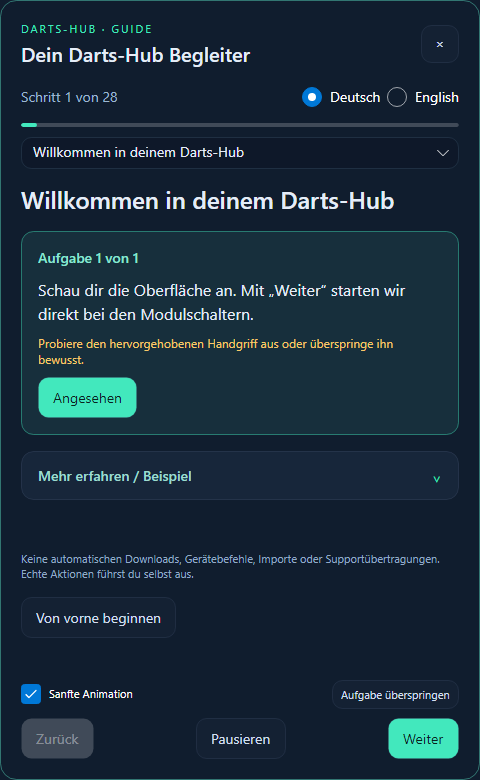
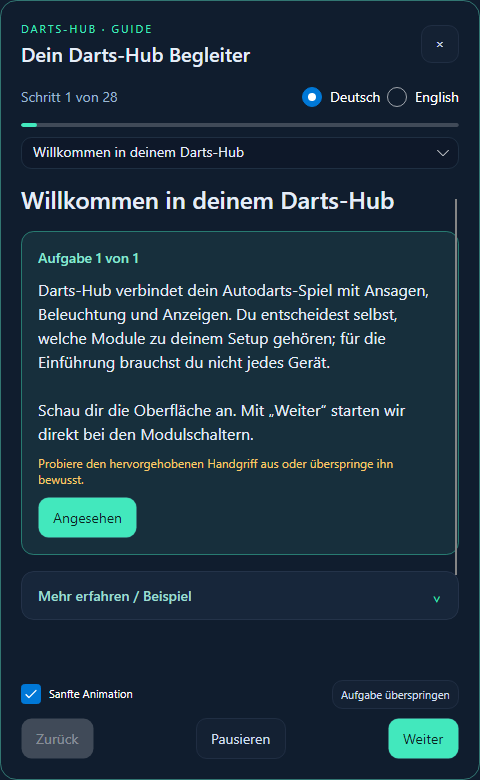
Publish documentation for v0.1.0-beta.48

Changed region(s): [[0.0312, 0.2769, 0.9688, 0.8], [0.6875, 0.5231, 0.8438, 0.5538]]

diff --git a/docs/HUBX.md b/docs/HUBX.md
@@ -2,6 +2,10 @@
 
 ## Deutsch
 
+HubX ist in **AWTRIX-NG, PixelIt und WLED** verfügbar. Das GIF-Anzeigemodul bietet keinen HubX-Browser und keine Teilen-Funktion. Pro Veröffentlichung wird genau ein Ereignis geteilt, mit allen zugehörigen Schritten und Bildern.
+
+HubX unterstützt GIFs und PNG-Pixelgrafiken auch in **64×8**. Auflösungsfilter und Größenangaben unterscheiden die Inhalte. Bei AWTRIX-Ereignissen wird die 32×8- oder 64×8-Displaygröße des Quellcontrollers für die Vorschau übernommen; sie ändert beim Import keine Einstellungen des Zielcontrollers. Der AWTRIX-HubX-Browser in GUI, TUI, lokaler Weboberfläche und Webapp hat ebenfalls einen Auflösungsfilter. PixelIt-Animationen bleiben auf maximal 32×8 beschränkt.
+
 [HubX](https://hubx.darts-hub.de/) benötigt **hubx_access** in deinem Lizenzschlüssel. Unter **Einstellungen → Lizenz** prüfen. Die Plattform verlangt die Zustimmung zu ihren aktuellen Rechtstexten; beim Teilen aus Darts-Hub kann dies direkt im Dialog erfolgen.
 
 ### Entdecken und übernehmen
@@ -23,9 +27,9 @@ Bei gleichen GIF-Namen werden beide Bilder gegenübergestellt: umbenennen, über
 
 ### Teilen
 
-**Auf HubX teilen** im jeweiligen Modul öffnen. Titel selbst eingeben, ausdrücklich die richtigen Ereignisse auswählen und den benötigten Quellcontroller bestimmen. Daten prüfen und die öffentliche **CC0**-Freigabe bestätigen. Geräteadressen und Zugangsdaten bleiben privat. Nur eigene oder entsprechend freigegebene Inhalte hochladen.
+**Auf HubX teilen** im jeweiligen Modul öffnen. Titel selbst eingeben, ausdrücklich genau ein Ereignis auswählen und den benötigten Quellcontroller bestimmen. Daten prüfen und die öffentliche **CC0**-Freigabe bestätigen. Geräteadressen und Zugangsdaten bleiben privat. Nur eigene oder entsprechend freigegebene Inhalte hochladen.
 
-AWTRIX-GIFs werden zusätzlich einzeln angeboten. Verknüpfte WLED-Presets erscheinen zusätzlich als eigene Beiträge mit passender Vorschau. Eine optionale Controller-Aufnahme benötigt ein erreichbares Gerät und ist während eines laufenden Matches gesperrt. Pixelit veröffentlicht auch die wirksamen Vorlagen inklusive Text-, Farb-, Scroll- und Helligkeitsanpassungen. Manuelle Website-Uploads sind für GIFs; Ereignisse kommen aus Darts-Hub.
+AWTRIX-GIFs werden zusätzlich einzeln angeboten. Verknüpfte WLED-Presets erscheinen zusätzlich als eigene Beiträge mit passender Vorschau. Eine optionale Controller-Aufnahme benötigt ein erreichbares Gerät und ist während eines laufenden Matches gesperrt. Pixelit veröffentlicht auch die wirksamen Vorlagen inklusive Text-, Farb-, Scroll- und Helligkeitsanpassungen. Manuelle Website-Uploads sind für GIFs und PNG-Pixelgrafiken; Ereignisse kommen aus Darts-Hub.
 
 Studio-Zugang: Administratoren oder **studio_access**. Eigene GIFs lassen sich im Studio bearbeiten; Administratoren können weitere Beiträge öffnen. Profile, Bewertungen und Badges werden auf der Website verwaltet.
 
@@ -33,11 +37,15 @@ TUI: HubX-Posteingang beziehungsweise HubX-Aktionen der Erweiterung verwenden. L
 
 ## English
 
+HubX is available in **AWTRIX NG, PixelIt and WLED**. The GIF display module has no HubX browser or sharing action. Each publication shares exactly one event, including all its steps and images.
+
+HubX supports GIFs and PNG pixel graphics in **64×8** too, with resolution filters and size labels. AWTRIX event previews use the source controller's 32×8 or 64×8 display size; importing does not change target device settings. The AWTRIX HubX browser in GUI, TUI, local web UI and webapp also offers a resolution filter. PixelIt animations remain limited to 32×8.
+
 HubX requires **hubx_access**. Verify your saved license and accept the current legal documents when prompted. Discover effects from the HubX section of each module, inspect previews and trigger conditions, then confirm the local import. Website **Send to Darts-Hub** delivers a package to a running installation for review. Downloaded **package JSON** files use the same workflow.
 
 Event packages include their required resources. Standalone GIFs upload to a selected AWTRIX NG controller, standalone WLED presets upload only to a selected controller, and standalone Pixelit templates save to the template library: none creates a rule. Compare, rename or overwrite GIF name collisions. WLED requires free replacement IDs, which imported rules then use. Templates use meaningful `_hubX` names.
 
-When sharing, enter a title, choose the intended events and source controller, review and confirm public **CC0** sharing. Device addresses and credentials stay private. Included AWTRIX GIFs, linked WLED presets and effective Pixelit templates are also offered separately. Manual website uploads accept GIFs; event packages originate in Darts-Hub. Studio requires administrator rights or **studio_access**. GUI, TUI, local web UI and paired webapp share import validation. Previews have simulation, firmware and external-input limitations.
+When sharing, enter a title, choose exactly one event and the source controller, review and confirm public **CC0** sharing. Device addresses and credentials stay private. Included AWTRIX GIFs, linked WLED presets and effective Pixelit templates are also offered separately. Manual website uploads accept GIFs and PNG pixel graphics; event packages originate in Darts-Hub. Studio requires administrator rights or **studio_access**. GUI, TUI, local web UI and paired webapp share import validation. Previews have simulation, firmware and external-input limitations.
 
 [GIF import](HubX-GIF-Import.md) · [AWTRIX](AWTRIX.md) · [Pixelit](PIXELIT.md) · [WLED](WLED_CONFIGURATION_AND_AUTODARTS.md)
 

diff --git a/docs/GUIDED_INTRODUCTION.md b/docs/GUIDED_INTRODUCTION.md
@@ -4,6 +4,7 @@
 
 Beim ersten GUI-Start bietet Darts-Hub die Einführung an, sobald der Start und notwendige Dialoge abgeschlossen sind. Du erreichst sie jederzeit über **?** im Kopfbereich oder **Geführte Einführung** im Dashboard. Der Begleiter bleibt verschiebbar und an den Rändern skalierbar; die eigentliche Anwendung bleibt bedienbar.
 
+- Aufgaben erklären zuerst Zweck und Wirkung der Funktion, dann den konkreten Handgriff. Zusatzinfos erläutern beispielsweise Download gegenüber Stimmenauswahl, Auslöser gegenüber Effekt, Spielerfilter gegenüber Zielgerät und Vorlage gegenüber Überschreibung.
 - Die echten Bedienelemente werden mit einem hellen Ausschnitt hervorgehoben; der übrige Bereich wird abgedunkelt. Die Oberfläche bleibt bedienbar. Der Ausschnitt folgt Scrollen und Fenstergröße. „Sanfte Animation“ schaltet die gleitende, dezent pulsierende Hervorhebung ab oder an.
 - Jedes Kapitel hat kleine Aufgaben statt eines langen Pflichttexts: etwa Bibliothek aufklappen, Sprachfilter ansehen und Suche ändern. Passende Klicks, Fokus oder Änderungen werden erkannt; eine Rückmeldung bestätigt den Handgriff. Längere Erklärungen und Beispiele stehen in einer aufklappbaren Karte im Anwendungsstil unter **Mehr erfahren / Beispiel**.
 - Fehlende Elemente werden als nicht sichtbar gemeldet. **Aufgabe überspringen** führt weiter, ohne etwas einzurichten. Die Übungsregel ist weiterhin eine Simulation.
@@ -27,6 +28,8 @@ Der Fortschritt ist lokale Bedienoberflächeninformation in `learning-progress.j
 ## English
 
 On first GUI launch, Darts-Hub offers the introduction after startup and required dialogs finish. Reopen it using **?** in the header or **Guided introduction** on Dashboard. Move or resize the companion while continuing to use the actual application.
+
+Tasks first explain the purpose and effect of a function, then the action to try. Additional information distinguishes downloading from voice selection, triggers from effects, player filters from target devices, and templates from overrides.
 
 Real controls are spotlighted while the surrounding interface is dimmed and remains usable. The cutout follows scrolling and resizing. Gentle animation can be disabled. Small tasks recognize clicks, focus or changes and give immediate feedback. Longer explanations and examples sit in a collapsible card styled like the application under **Learn more / example**. Missing controls are reported explicitly; **Skip task** continues without configuring anything. Progress includes the exact subtask and animation preference.
 

diff --git a/changelog.md b/changelog.md
@@ -1,6 +1,6 @@
 # Changelog – Darts-Hub 2.0
 
-## v0.1.0-beta.47
+## v0.1.0-beta.48
 
 <!-- Geplante nächste Version. Bei Bedarf vor dem Release anpassen. / Planned next version; adjust before release if needed. -->
 
@@ -28,7 +28,13 @@
 
 #### AwtrixNG
 
+- Fehlende Apps nach einem Uhrenneustart blockieren die Wiederherstellung nicht mehr; erneutes Hinzufügen des Geräts ist dafür nicht nötig.
+
 <!-- Kurze Änderungen für Nutzer hier eintragen. -->
+
+#### HubX
+
+- HubX teilt jeweils genau ein Ereignis. AWTRIX unterstützt 64×8-Vorschauen und Auflösungsfilter; die HubX-Anbindung im GIF-Modul entfällt.
 
 #### GIF
 
@@ -39,6 +45,8 @@
 <!-- Kurze Änderungen für Nutzer hier eintragen. -->
 
 #### GUI, TUI und Weboberfläche / GUI, TUI and Web Interface
+
+- Die Einführung erklärt Zweck und Wirkung der Funktionen ausführlicher und ergänzt Aufgaben um verständliche Zusammenhänge und Beispiele.
 
 - GUI-Start bleibt auch bei unvollständigen Update-Antworten stabil; fehlende Meldungsfelder verursachen keinen Absturz mehr.
 
@@ -53,6 +61,8 @@
 <!-- Kurze Änderungen für Nutzer hier eintragen. -->
 
 #### Lizenz und Support / Licensing and Support
+
+- Die automatische Lizenzprüfung beendet sich beim Schließen regulär und erzeugt beim Warten auf den nächsten Prüftermin keine Abbruchausnahme mehr.
 
 <!-- Kurze Änderungen für Nutzer hier eintragen. -->
 
@@ -80,7 +90,13 @@
 
 #### AwtrixNG
 
+- Apps missing after a clock restart no longer block restoration; re-adding the device is unnecessary.
+
 <!-- Add brief user-facing changes here. -->
+
+#### HubX
+
+- HubX shares one event at a time. AWTRIX supports 64×8 previews and resolution filters; HubX integration is removed from the GIF module.
 
 #### GIF
 
@@ -91,6 +107,8 @@
 <!-- Add brief user-facing changes here. -->
 
 #### GUI, TUI und Weboberfläche / GUI, TUI and Web Interface
+
+- The guide explains the purpose and effect of functions in more detail, adding practical context and examples to tasks.
 
 - GUI startup remains stable with incomplete update responses; missing message fields no longer cause a crash.
 
@@ -105,5 +123,7 @@
 <!-- Add brief user-facing changes here. -->
 
 #### Lizenz und Support / Licensing and Support
+
+- Automatic license checking now stops normally on shutdown without a cancellation exception while waiting for its next scheduled check.
 
 <!-- Add brief user-facing changes here. -->

diff --git a/docs/AWTRIX.md b/docs/AWTRIX.md
@@ -2,6 +2,9 @@
 
 ## Deutsch
 
+### Wiederherstellung nach Uhrenneustart
+AWTRIX-NG hält gesendete Apps wie `darts_event` nur im Arbeitsspeicher. Nach einem Neustart können sie fehlen, obwohl ihr Name noch in der gespeicherten Reihenfolge steht. Darts-Hub stellt App-Reihenfolge, deaktivierte Apps, Einstellungen und Displayzustand wieder her und aktiviert die vorherige App nur, wenn sie noch verfügbar ist. Eine fehlende App blockiert die Wiederherstellung nicht. Das gilt gemeinsam für GUI, Weboberfläche und TUI; dort unter **AwtrixNG** das Gerät prüfen/neu laden. Neue Ereignisse senden ihre Anzeige erneut.
+
 ### GIF-Vorlage und HubX
 Für Vollbild-Icons **gif** auswählen, **Vorlagentext ersetzen** ausschalten und ein auf dem Controller vorhandenes Icon wählen. Die Vorlage hat keinen Text und verwendet einen festen Icon-Modus. Für Vollbild eine **32×8-GIF-Datei** verwenden; kleine Icons werden nicht auf die volle Breite gestreckt. Die virtuelle Vorschau verändert den Controller nicht, **Testsequenz** dagegen sendet den Entwurf tatsächlich. Danach speichern.
 
@@ -25,6 +28,9 @@ Voraussetzung: **AwtrixNG-Firmware** und verbundenes Board unter **Autodarts**. 
 TUI: Seite **AwtrixNG**, **Enter** zum Bearbeiten. Headless nutzt die gespeicherten Einstellungen; [Startargumente](START_ARGUMENTS.md).
 
 ## English
+
+### Recovery after a clock restart
+AWTRIX NG keeps pushed apps such as `darts_event` in memory. After a restart they may be missing even when their names remain in the saved order. Darts-Hub restores app order, disabled apps, settings and display state, and only activates the previous app if it is still available. A missing app does not block recovery. This shared behavior applies to GUI, web UI and TUI; use the device check/reload action under **AwtrixNG**. New events push their display again.
 
 ### GIF template and HubX
 For fullscreen icons choose **gif**, disable custom text and select an installed controller icon. Use a **32×8 GIF**; smaller icons are not stretched. Virtual previews leave the controller unchanged; device tests send the draft. Save afterwards. Discover/share/import events from the module's HubX area. Included GIFs are also offered separately; standalone GIF imports upload to a selected controller after conflict review without creating a rule. [HubX](HUBX.md)

diff --git a/docs/GIF.md b/docs/GIF.md
@@ -2,6 +2,8 @@
 
 ## Deutsch
 
+Das GIF-Anzeigemodul bietet keine HubX-Anbindung. HubX-GIFs und PNG-Pixelgrafiken werden über die AWTRIX-NG-Integration verwendet; PixelIt unterstützt weiterhin die GIF-Konvertierung bis maximal 32×8.
+
 Für Spielereignisse zuerst das Board unter **Autodarts** verbinden. Der Caller darf ausgeschaltet sein.
 
 1. **GIF → Medien** öffnen, einen Ordner mit GIF-, PNG- oder JPEG-Dateien wählen und speichern.
@@ -16,6 +18,8 @@ Im Browser schaltet Doppelklick auf Vollbild. Bei Netzwerkfreigabe die angezeigt
 TUI: Seite **GIF**, **Enter** zum Bearbeiten. Headless nutzt die gespeicherten Einstellungen; [Startargumente](START_ARGUMENTS.md).
 
 ## English
+
+The GIF display module has no HubX integration. Use HubX GIFs and PNG pixel graphics through AWTRIX NG; PixelIt still supports GIF conversion up to 32×8.
 
 Connect your board under **Autodarts** for game events. Caller may stay disabled.
 
